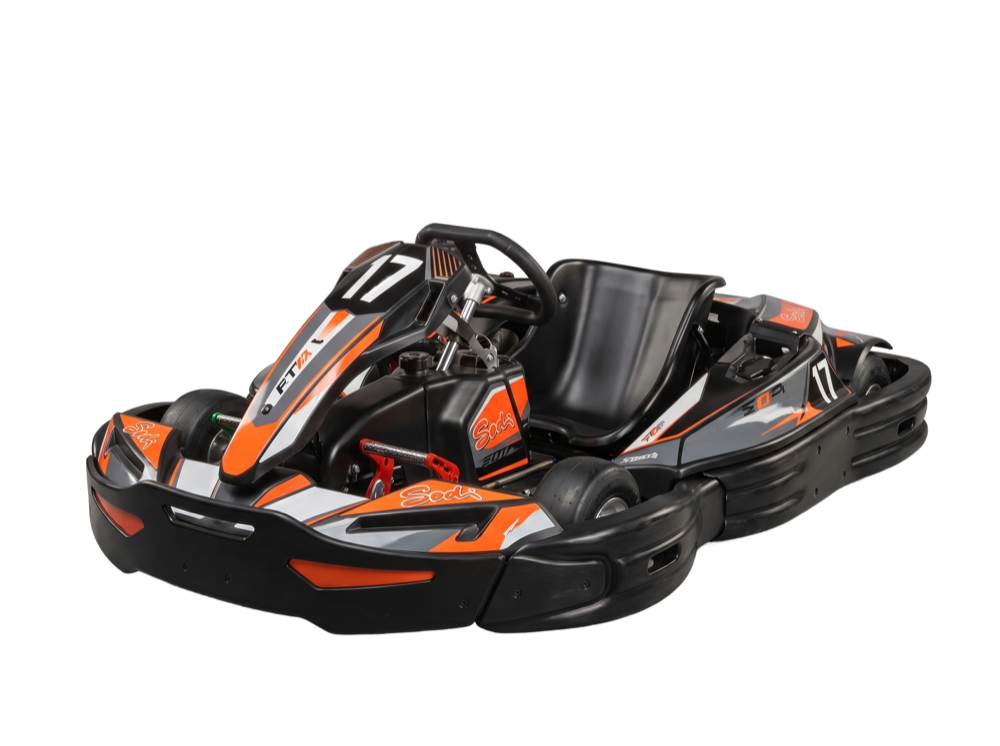
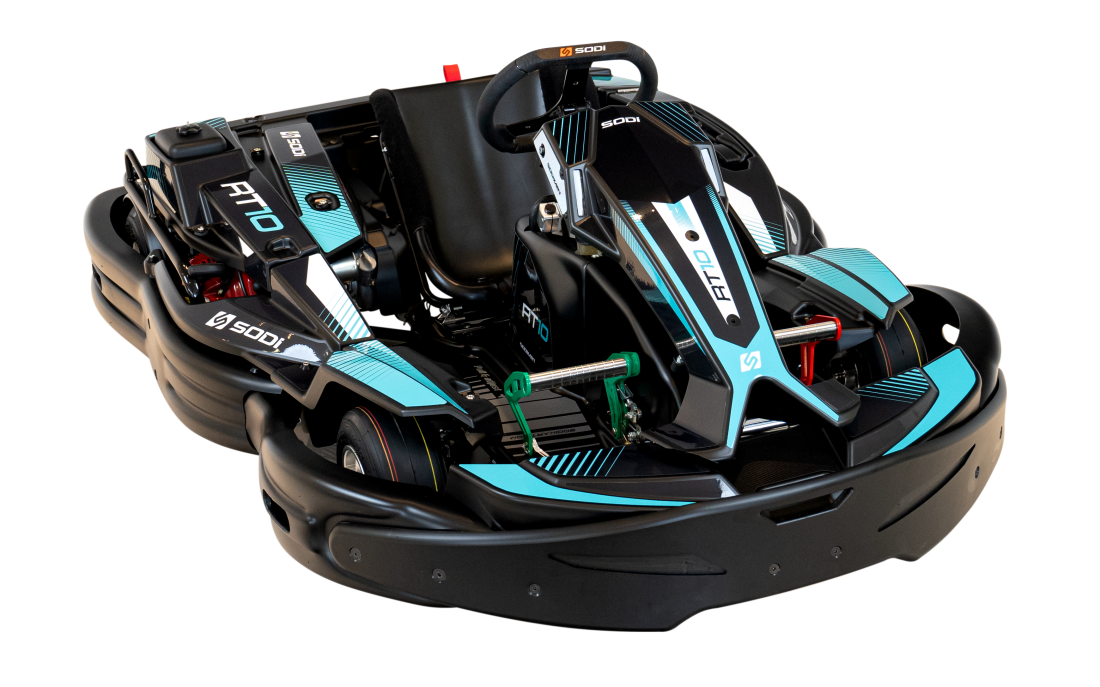
100 Tours : Sodi RT10 390cc, équipes de 2 ou 3 pilotes (59€ / 88€)
Infos client du 15/09 : la course se court sur les nouveaux RT10 390cc, et
l'équipe peut être à deux. Le total reste le même (177€ à trois, 176€ à
deux), seul le nombre de parts change — c'est dit tel quel sur la fiche.

- fiche agenda : résumé, détails, facts et tarif
- formulaire : choix « 2 ou 3 pilotes » qui commande le nombre de champs
  coéquipier et affiche le tarif correspondant ; validation serveur alignée
- e-mails d'inscription : effectif et tarif dans les deux récapitulatifs
- flotte : le 390cc est un Sodi RT10 (visuel officiel + mention du modèle)
- llms.txt, sitemap

diff --git a/components/InscriptionCentTours.tsx b/components/InscriptionCentTours.tsx
@@ -4,7 +4,7 @@ import { useEffect, useState, type ReactNode } from "react";
 import Link from "next/link";
 import { track } from "@vercel/analytics/react";
 import { SITE } from "@/lib/site";
-import { EXPERIENCES } from "@/lib/inscription";
+import { EXPERIENCES, TEAM_SIZES, teamPricing, type TeamSize } from "@/lib/inscription";
 
 /**
  * Formulaire d'inscription d'une équipe aux 100 Tours.
@@ -59,7 +59,8 @@ export default function InscriptionCentTours({ dates }: { dates: DateOption[] })
   const [date, setDate] = useState("");
   const [team, setTeam] = useState("");
   const [captain, setCaptain] = useState({ name: "", phone: "", email: "" });
-  const [pilots, setPilots] = useState<[string, string]>(["", ""]);
+  const [teamSize, setTeamSize] = useState<TeamSize>(3);
+  const [pilots, setPilots] = useState<string[]>(["", ""]);
   const [experience, setExperience] = useState("");
   const [message, setMessage] = useState("");
   const [consent, setConsent] = useState(false);
@@ -79,7 +80,7 @@ export default function InscriptionCentTours({ dates }: { dates: DateOption[] })
       const res = await fetch("/api/inscription", {
         method: "POST",
         headers: { "Content-Type": "application/json" },
-        body: JSON.stringify({ date, team, captain, pilots, experience, message, consent, website }),
+        body: JSON.stringify({ date, team, teamSize, captain, pilots, experience, message, consent, website }),
       });
       const json = (await res.json()) as { ok: boolean; errors?: Record<string, string> };
       if (json.ok) {
@@ -103,7 +104,8 @@ export default function InscriptionCentTours({ dates }: { dates: DateOption[] })
           Équipe <span className="text-race">{team}</span>, vous êtes sur la liste.
         </h2>
         <p className="mt-4 text-base leading-relaxed text-chalk-60">
-          Un récapitulatif part à l&rsquo;instant sur <strong className="text-chalk">{captain.email}</strong>.
+          Un récapitulatif part à l&rsquo;instant sur <strong className="text-chalk">{captain.email}</strong>{" "}
+          — {teamSize} pilotes, {teamPricing(teamSize).perPilot}€ chacun.
           Le circuit revient vers vous pour confirmer votre place aux 100 Tours
           {chosen ? ` du ${chosen.label}` : ""}. Une question d&rsquo;ici là ? Le {SITE.phone} répond
           aux heures d&rsquo;ouverture.
@@ -173,6 +175,45 @@ export default function InscriptionCentTours({ dates }: { dates: DateOption[] })
         )}
       </fieldset>
 
+      {/* Combien de pilotes — le tarif en dépend, donc il s'affiche ici. */}
+      <fieldset>
+        <legend className="display mb-3 text-lg text-chalk">Combien êtes-vous ?</legend>
+        <div className="grid gap-3 sm:grid-cols-2">
+          {TEAM_SIZES.map((t) => {
+            const active = teamSize === t.size;
+            return (
+              <label
+                key={t.size}
+                className={`flex cursor-pointer items-center gap-3 border px-4 py-3 transition-colors ${
+                  active ? "border-race bg-race/10" : "border-white/10 bg-asphalt-3 hover:border-white/25"
+                }`}
+              >
+                <input
+                  type="radio"
+                  name="teamSize"
+                  value={t.size}
+                  checked={active}
+                  onChange={() => setTeamSize(t.size)}
+                  className="accent-[var(--color-race)]"
+                  disabled={disabled}
+                />
+                <span>
+                  <span className="display block text-lg leading-tight text-chalk">
+                    {t.size} pilotes
+                  </span>
+                  <span className="text-sm text-chalk-60">
+                    {t.perPilot}€ par pilote · {t.total}€ l&rsquo;équipe
+                  </span>
+                </span>
+              </label>
+            );
+          })}
+        </div>
+        <p className="mt-2 text-sm text-chalk-60">
+          L&rsquo;équipe paie le même total ; à deux, chacun roule simplement plus longtemps.
+        </p>
+      </fieldset>
+
       {/* Équipe */}
       <Field id="team" label="Nom de l'équipe" error={errors.team} hint="C'est ce nom qui s'affichera au chrono.">
         <input
@@ -238,16 +279,18 @@ export default function InscriptionCentTours({ dates }: { dates: DateOption[] })
 
       {/* Coéquipiers */}
       <fieldset className="flex flex-col gap-5">
-        <legend className="display mb-1 text-lg text-chalk">Les coéquipiers</legend>
+        <legend className="display mb-1 text-lg text-chalk">
+          {teamSize === 2 ? "Votre coéquipier" : "Les coéquipiers"}
+        </legend>
         <div className="grid gap-5 sm:grid-cols-2">
-          {([0, 1] as const).map((i) => (
+          {Array.from({ length: teamSize - 1 }, (_, i) => (
             <Field key={i} id={`pilot-${i}`} label={`${i + 2}e pilote — nom et prénom`} error={errors[`pilots.${i}`]}>
               <input
                 id={`pilot-${i}`}
                 className={INPUT}
-                value={pilots[i]}
+                value={pilots[i] ?? ""}
                 onChange={(e) => {
-                  const next: [string, string] = [...pilots] as [string, string];
+                  const next = [...pilots];
                   next[i] = e.target.value;
                   setPilots(next);
                 }}

diff --git a/lib/inscription.ts b/lib/inscription.ts
@@ -18,6 +18,21 @@ export function centToursDates(today = new Date()) {
   });
 }
 
+/**
+ * Tarifs officiels (client, 15/09/2026) : l'équipe paie le même total,
+ * seul le nombre de parts change. Le premier élément est le format par défaut.
+ */
+export const TEAM_SIZES = [
+  { size: 3, perPilot: 59, total: 177 },
+  { size: 2, perPilot: 88, total: 176 },
+] as const;
+
+export type TeamSize = (typeof TEAM_SIZES)[number]["size"];
+
+export function teamPricing(size: number) {
+  return TEAM_SIZES.find((t) => t.size === size) ?? TEAM_SIZES[0];
+}
+
 export const EXPERIENCES = [
   "Première course pour l'équipe",
   "Quelques courses à notre actif",
@@ -27,8 +42,11 @@ export const EXPERIENCES = [
 export type Inscription = {
   date: string;
   team: string;
+  /** 2 ou 3 pilotes, capitaine compris. */
+  teamSize: TeamSize;
   captain: { name: string; phone: string; email: string };
-  pilots: [string, string];
+  /** Les coéquipiers : un seul à deux pilotes, deux à trois pilotes. */
+  pilots: string[];
   experience: string;
   message: string;
   consent: boolean;
@@ -48,17 +66,21 @@ export function parseInscription(
 ): { ok: true; data: Inscription } | { ok: false; errors: Record<string, string> } {
   const r = (raw ?? {}) as Record<string, unknown>;
   const cap = (r.captain ?? {}) as Record<string, unknown>;
-  const pilots = Array.isArray(r.pilots) ? r.pilots : [];
+  const rawPilots = Array.isArray(r.pilots) ? r.pilots : [];
+  // Le nombre de pilotes commande le nombre de champs attendus : un
+  // 3e nom envoyé par une équipe de 2 est simplement ignoré.
+  const teamSize: TeamSize = Number(r.teamSize) === 2 ? 2 : 3;
 
   const data: Inscription = {
     date: clean(r.date, 10),
     team: clean(r.team, 80),
+    teamSize,
     captain: {
       name: clean(cap.name, 80),
       phone: clean(cap.phone, 30),
       email: clean(cap.email, 120).toLowerCase(),
     },
-    pilots: [clean(pilots[0], 80), clean(pilots[1], 80)],
+    pilots: Array.from({ length: teamSize - 1 }, (_, i) => clean(rawPilots[i], 80)),
     experience: clean(r.experience, 60),
     message: clean(r.message, 1500),
     consent: r.consent === true,
@@ -73,8 +95,9 @@ export function parseInscription(
     errors["captain.phone"] = "Un numéro de téléphone valide est requis.";
   if (!/^[^\s@]+@[^\s@]+\.[^\s@]{2,}$/.test(data.captain.email))
     errors["captain.email"] = "Une adresse e-mail valide est requise.";
-  if (data.pilots[0].length < 2) errors["pilots.0"] = "Le nom du 2e pilote est requis.";
-  if (data.pilots[1].length < 2) errors["pilots.1"] = "Le nom du 3e pilote est requis.";
+  data.pilots.forEach((name, i) => {
+    if (name.length < 2) errors[`pilots.${i}`] = `Le nom du ${i + 2}e pilote est requis.`;
+  });
   if (!data.consent) errors.consent = "Nous avons besoin de votre accord pour traiter l'inscription.";
 
   return Object.keys(errors).length ? { ok: false, errors } : { ok: true, data };

diff --git a/lib/agenda.ts b/lib/agenda.ts
@@ -36,14 +36,16 @@ export const RACES: Operation[] = [
     kicker: "Endurance par équipes",
     name: "Les 100 Tours",
     accent: "race",
-    summary: "Endurance adulte par équipes de 3 pilotes : relais, stratégie et 100 tours au compteur.",
+    summary: "Endurance adulte en relais sur les nouveaux Sodi RT10 390cc : équipes de 2 ou 3 pilotes, 100 tours au compteur.",
     details: [
-      "Le format le plus long de l'année : par équipes de 3 pilotes, vous vous relayez sur 100 tours de circuit. Gestion du trafic, régularité, choix des relais — c'est une vraie course d'endurance, chronométrée au dixième par Apex Timing.",
+      "Le format le plus long de l'année, et il se court sur les nouveaux Sodi RT10 390cc : vous montez une équipe de deux ou trois pilotes et vous vous relayez sur 100 tours de circuit. Gestion du trafic, régularité, choix des relais — une vraie course d'endurance, chronométrée au dixième par Apex Timing.",
       "20 minutes d'essais et de qualifications pour installer la grille, puis départ lancé pour 100 tours. Le classement défile en direct sur l'écran géant.",
+      "Le tarif suit l'équipe, pas le nombre de pilotes : 177€ à trois, soit 59€ chacun ; 176€ à deux, soit 88€ chacun. À deux, on partage la même course en deux relais plus longs.",
       "La course est terminée à 15h30 : l'après-midi reste ouvert, et le Pack Découverte du dimanche s'enchaîne pour ceux qui veulent prolonger avec un moniteur.",
     ],
     facts: [
-      "Équipes de 3 pilotes",
+      "Sur les nouveaux Sodi RT10 390cc",
+      "Équipes de 2 ou 3 pilotes",
       "20 min essais + qualifications",
       "Course de 100 tours en relais",
       "Terminé à 15h30 — Pack Découverte possible ensuite",
@@ -52,7 +54,7 @@ export const RACES: Operation[] = [
     price: "59€ / pilote",
     endsAt: "15h30",
     priceValue: 59,
-    priceNote: "soit 177€ l'équipe de 3",
+    priceNote: "en équipe de 3 — 88€ en équipe de 2",
     reservation: true,
     signup: "/inscription/100-tours",
   },

diff --git a/app/api/inscription/route.ts b/app/api/inscription/route.ts
@@ -2,7 +2,13 @@ import { NextResponse } from "next/server";
 import { Resend } from "resend";
 import { SITE, SITE_URL } from "@/lib/site";
 import { getOperation } from "@/lib/agenda";
-import { CENT_TOURS_SLUG, centToursDates, parseInscription, type Inscription } from "@/lib/inscription";
+import {
+  CENT_TOURS_SLUG,
+  centToursDates,
+  parseInscription,
+  teamPricing,
+  type Inscription,
+} from "@/lib/inscription";
 
 export const runtime = "nodejs";
 
@@ -24,12 +30,12 @@ const row = (k: string, v: string) =>
 function recapTable(d: Inscription, dateLabel: string) {
   return `<table style="width:100%;border-collapse:collapse;font-size:15px;line-height:1.4">
     ${row("Course", `Les 100 Tours — ${dateLabel}`)}
-    ${row("Équipe", d.team)}
+    ${row("Équipe", `${d.team} — ${d.teamSize} pilotes`)}
+    ${row("Tarif", `${teamPricing(d.teamSize).perPilot}€ par pilote · ${teamPricing(d.teamSize).total}€ l'équipe`)}
     ${row("Capitaine", d.captain.name)}
     ${row("Téléphone", d.captain.phone)}
     ${row("E-mail", d.captain.email)}
-    ${row("2e pilote", d.pilots[0])}
-    ${row("3e pilote", d.pilots[1])}
+    ${d.pilots.map((n, i) => row(`${i + 2}e pilote`, n)).join("")}
     ${d.experience ? row("Expérience", d.experience) : ""}
     ${d.message ? row("Message", d.message) : ""}
   </table>`;
@@ -84,7 +90,7 @@ export async function POST(req: Request) {
         ${recapTable(d, dateLabel)}
         <div style="margin-top:20px;padding:14px 16px;background:#f5f5f3;border-radius:10px;font-size:14px;line-height:1.55;color:#444">
           <strong style="color:#111">Le format</strong> — ${esc(op?.facts.join(" · ") ?? "")}.<br>
-          <strong style="color:#111">Tarif</strong> — ${esc(op?.price ?? "")}${op?.priceNote ? `, ${esc(op.priceNote)}` : ""}.
+          <strong style="color:#111">Votre tarif</strong> — équipe de ${d.teamSize} : ${teamPricing(d.teamSize).perPilot}€ par pilote, soit ${teamPricing(d.teamSize).total}€ l'équipe.
         </div>`),
     });
   } catch (err) {

diff --git a/lib/karts.ts b/lib/karts.ts
@@ -90,7 +90,7 @@ export const KARTS: Kart[] = [
     age: "Adultes",
     minAge: 18,
     adultsOnly: true,
-    engine: "390 cm³ · 4 temps",
+    engine: "Sodi RT10 · 390 cm³ · 4 temps",
     image: "kart-390.png",
     priceHint: "Le cœur de gamme adulte",
     note: "Le plus puissant accessible sans chrono de référence.",

diff --git a/app/sitemap.ts b/app/sitemap.ts
@@ -2,7 +2,7 @@ import type { MetadataRoute } from "next";
 import { SITE_URL } from "@/lib/site";
 
 // Mettre à jour la date à chaque modification de contenu d'une page.
-const LASTMOD = "2026-09-12";
+const LASTMOD = "2026-09-15";
 
 export default function sitemap(): MetadataRoute.Sitemap {
   return [
